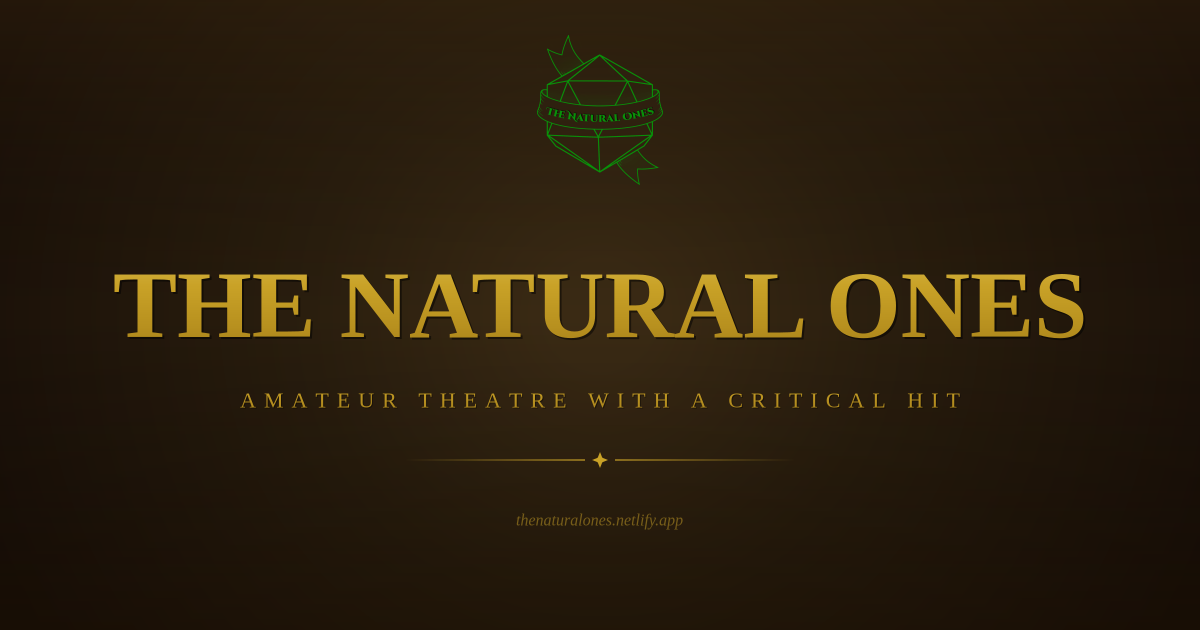
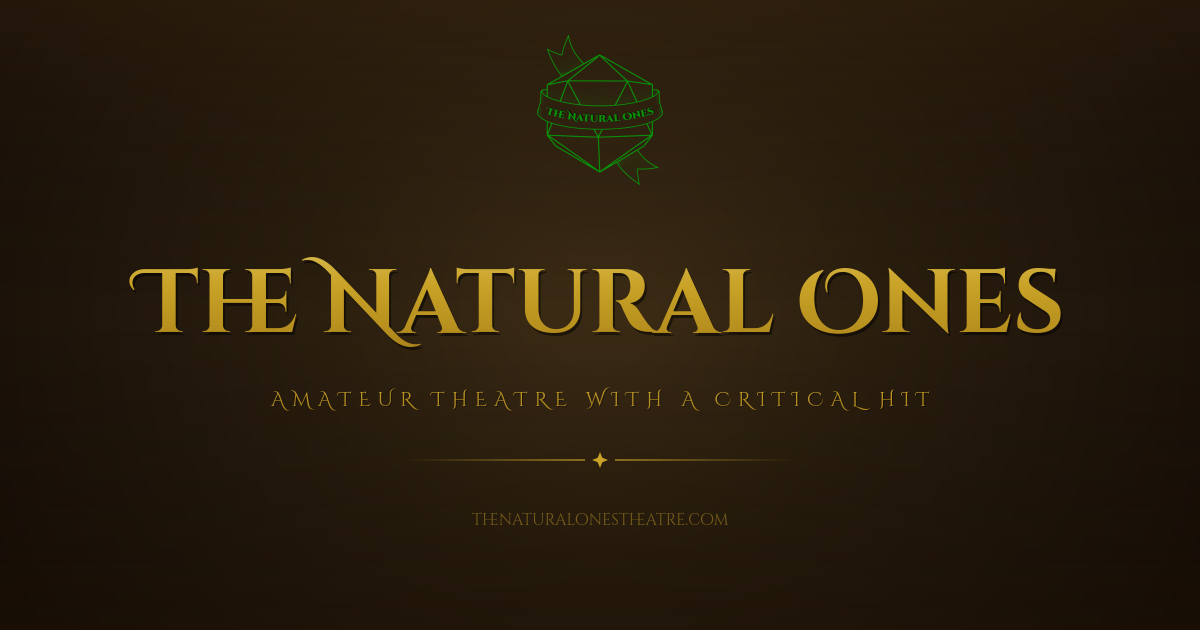
Update OG image to use Cinzel Decorative font and new domain
- Regenerate og-preview.png with Cinzel Decorative font to match
  the website's title typography
- Update all OG/Twitter meta tag URLs from thenaturalones.netlify.app
  to thenaturalonestheatre.com
- Update website URL shown in the preview image

https://claude.ai/code/session_019BA7Qp3qTMvrWzK7D6PgEb

diff --git a/index.html b/index.html
@@ -10,18 +10,18 @@
     <!-- Open Graph meta tags for social media previews (WhatsApp, Facebook, etc.) -->
     <meta property="og:title" content="The Natural Ones | Amateur Theatre with a Critical Hit" />
     <meta property="og:description" content="An Oxfordshire-based theatre group presenting Tabletop Role-Playing Game: The Musical! Adventure awaits on stage." />
-    <meta property="og:image" content="https://thenaturalones.netlify.app/images/og-preview.png" />
+    <meta property="og:image" content="https://thenaturalonestheatre.com/images/og-preview.png" />
     <meta property="og:image:width" content="1200" />
     <meta property="og:image:height" content="630" />
     <meta property="og:type" content="website" />
-    <meta property="og:url" content="https://thenaturalones.netlify.app" />
+    <meta property="og:url" content="https://thenaturalonestheatre.com" />
     <meta property="og:site_name" content="The Natural Ones" />
 
     <!-- Twitter Card meta tags -->
     <meta name="twitter:card" content="summary_large_image" />
     <meta name="twitter:title" content="The Natural Ones | Amateur Theatre with a Critical Hit" />
     <meta name="twitter:description" content="An Oxfordshire-based theatre group presenting Tabletop Role-Playing Game: The Musical! Adventure awaits on stage." />
-    <meta name="twitter:image" content="https://thenaturalones.netlify.app/images/og-preview.png" />
+    <meta name="twitter:image" content="https://thenaturalonestheatre.com/images/og-preview.png" />
 
     <title>The Natural Ones | Amateur Theatre with a Critical Hit</title>
   </head>
